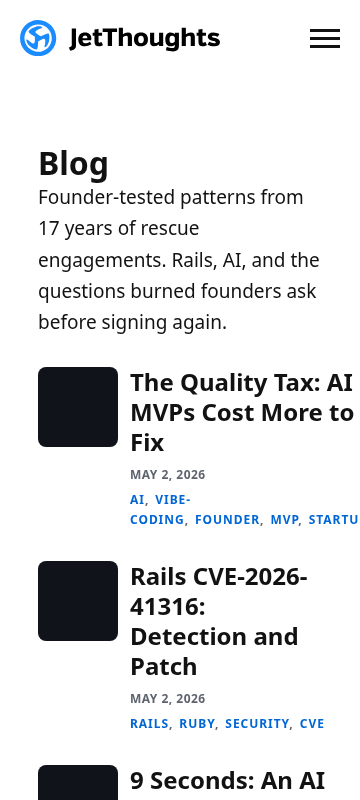
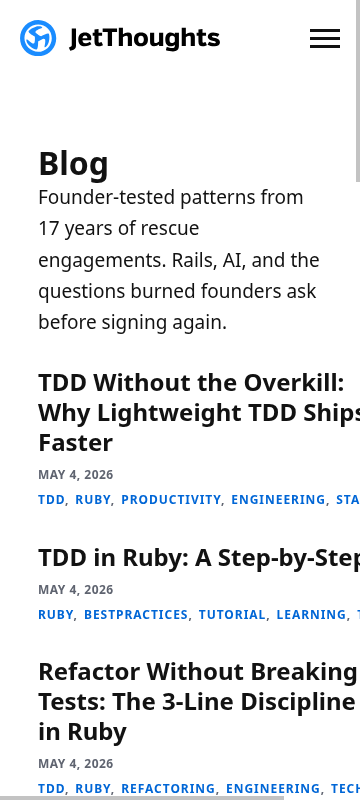
fix(blog): hide post thumbnails on mobile to prevent title overflow
On mobile (≤860px), the .post-image flex child was reserving 80px+12px
of horizontal space, leaving .post-content too narrow for full-width
titles. Combined with .post-content lacking min-width: 0 (default flex
min-width: auto), the post-content was sized to its intrinsic content
width, pushing the entire .blog-post past the viewport.

Symptom: blog index titles like "TDD Without the Overkill: Why
Lightweight TDD Ships Faster" rendered cut off at the right edge on
mobile, with horizontal scroll on .blog-index (538px content in 460px
container) and on .blog-post (458px in 424px). Tags wrapped past the
viewport edge as well.

Fix: replace the mobile resize rule with display: none. Hiding images
on mobile gives titles full content width (332px on a 360px viewport
after padding), titles wrap at word boundaries, tags stay inline at
commas. Cards become text-only on mobile - cleaner reading experience
than the small 80x80 thumbnails.

Desktop (>860px) is unchanged: full 180x180 thumbnails on the left.

Validation:
- chrome-devtools verified bodyScrollW = viewport (no overflow) at
  500px viewport.
- bin/dtest passed 41/42 with the expected mobile/blog/index baseline
  diff (0.0246 difference - intentional). Updated linux baseline.
- bin/test (macOS) skipped per user direction; local environmental
  block (ChromeDriver 148 vs Chrome 147 mismatch) prevents Selenium
  session creation. macOS baseline can be regenerated separately.

Changed region(s): [[0.0, 0.6875, 1.0, 1.0], [0.0917, 0.4375, 1.0, 0.6562], [0.9778, 0.0, 1.0, 0.25]]

diff --git a/themes/beaver/assets/css/homepage-layout.css b/themes/beaver/assets/css/homepage-layout.css
@@ -2626,10 +2626,7 @@ span.pp-accordion-button-icon {
 
 @media (max-width: 860px) {
   .post-image {
-    min-width: 80px;
-    width: 80px;
-    height: 80px;
-    margin-right: 12px;
+    display: none;
   }
 }
 